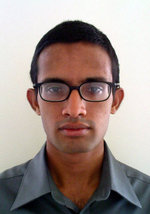
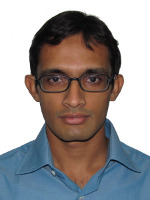
update

diff --git a/framework/learning_projects/index.html b/framework/learning_projects/index.html
@@ -78,14 +78,12 @@ discovery process. </p>
 
 <h2 id="lifecycles_of_learning_projects">Lifecycles of Learning Projects</h2>
 
-<div class="img"><img src="../lifecycle_1.png" width="193" height="260" class="img" /><div class="caption">Typical lifecycle of learning projects: Learning projects start off from
-                ad-hoc interests. As they develop, they could be split into two or more branches.
-                Learning projects could be left open ended or could end with a conclusion.</div></div>
+<div class="img"><img src="../lifecycle_1.png" width="193" height="260" class="img" /><div class="caption">Typical lifecycle of learning projects: Learning projects typically start off as
+                ad-hoc interests. As they develop, they may be split into two or more branches.
+                Learning projects may either be left open ended or be ended with a conclusion.</div></div>
 
 <div class="img"><img src="../lifecycle_2.png" width="234" height="188" class="img" /><div class="caption">Alternate lifecycle of learning projects: Two or more ad-hoc interests
-                that exhibit synergy could be combined into a single learning project.
-                Two learning projects that have converged over time could be merged into a
-                single learning project.</div></div>
+                or learning projects that exhibit synergy may be combined into a single learning project.</div></div>
 
 <p>Learning projects begin naturally from one or more <a href="../ad-hoc_interests/">ad-hoc interests</a>.
 For instance, there could be a certain synergy or commonality between two or more
@@ -197,7 +195,7 @@ learning projects
 
 
 <div class="pagedate">
-Last edited <span class="date">Tuesday 08,March,2011 06:15:19 PM SGT</span>
+Last edited <span class="date">Saturday 21,May,2011 11:42:04 AM SGT</span>
 <!-- Created <span class="date">Friday 24,December,2010 01:05:32 AM SGT</span> -->
 </div>
 </div><!-- #pageinfo -->

diff --git a/records/2008/website/index.html b/records/2008/website/index.html
@@ -85,6 +85,16 @@ website
 </div>
 <div class="MainPage">
 <ol>
+<li class="L1">2011-05-22 <ol>
+<li class="L2">Actions <ol>
+<li class="L3">Added passport photo to About Page <ol>
+<p class="P4">It would be better to put up a photo showing me in the process
+of self-directed learning, but I put this one up as a temporary
+measure. It was also a better taken photo that the one that I
+had removed previously. </p>
+</ol>
+</ol>
+</ol>
 <li class="L1">2011-05-18 <ol>
 <li class="L2">Actions <ol>
 <li class="L3">Increased <code>line-spacing</code> from 1.8em to 2em <ol>
@@ -2157,7 +2167,7 @@ website
 
 
 <div class="pagedate">
-Last edited <span class="date">Wednesday 18,May,2011 10:13:09 PM SGT</span>
+Last edited <span class="date">Sunday 22,May,2011 12:59:36 AM SGT</span>
 <!-- Created <span class="date">Friday 31,December,2010 10:45:29 AM SGT</span> -->
 </div>
 </div><!-- #pageinfo -->

diff --git a/about/index.html b/about/index.html
@@ -77,7 +77,7 @@ mainstream education system, and for parents and teachers of such students.</p>
 <p>Name: Mohanadas <em>Harish</em> Chandar <br />
 Location: Singapore  </p>
 
-
+<div class="img"><img src="./150x-photo.jpg" width="150" height="" class="img" /><div class="caption">Me in 2011.</div></div>
 
 <p>My interest in self-directed learning began around year 2006. 
 It was my first year at university, and it occurred to me that if 
@@ -138,7 +138,7 @@ about
 
 
 <div class="pagedate">
-Last edited <span class="date">Tuesday 03,May,2011 11:24:59 PM SGT</span>
+Last edited <span class="date">Sunday 22,May,2011 12:50:20 AM SGT</span>
 <!-- Created <span class="date">Thursday 30,December,2010 11:16:54 AM SGT</span> -->
 </div>
 </div><!-- #pageinfo -->
